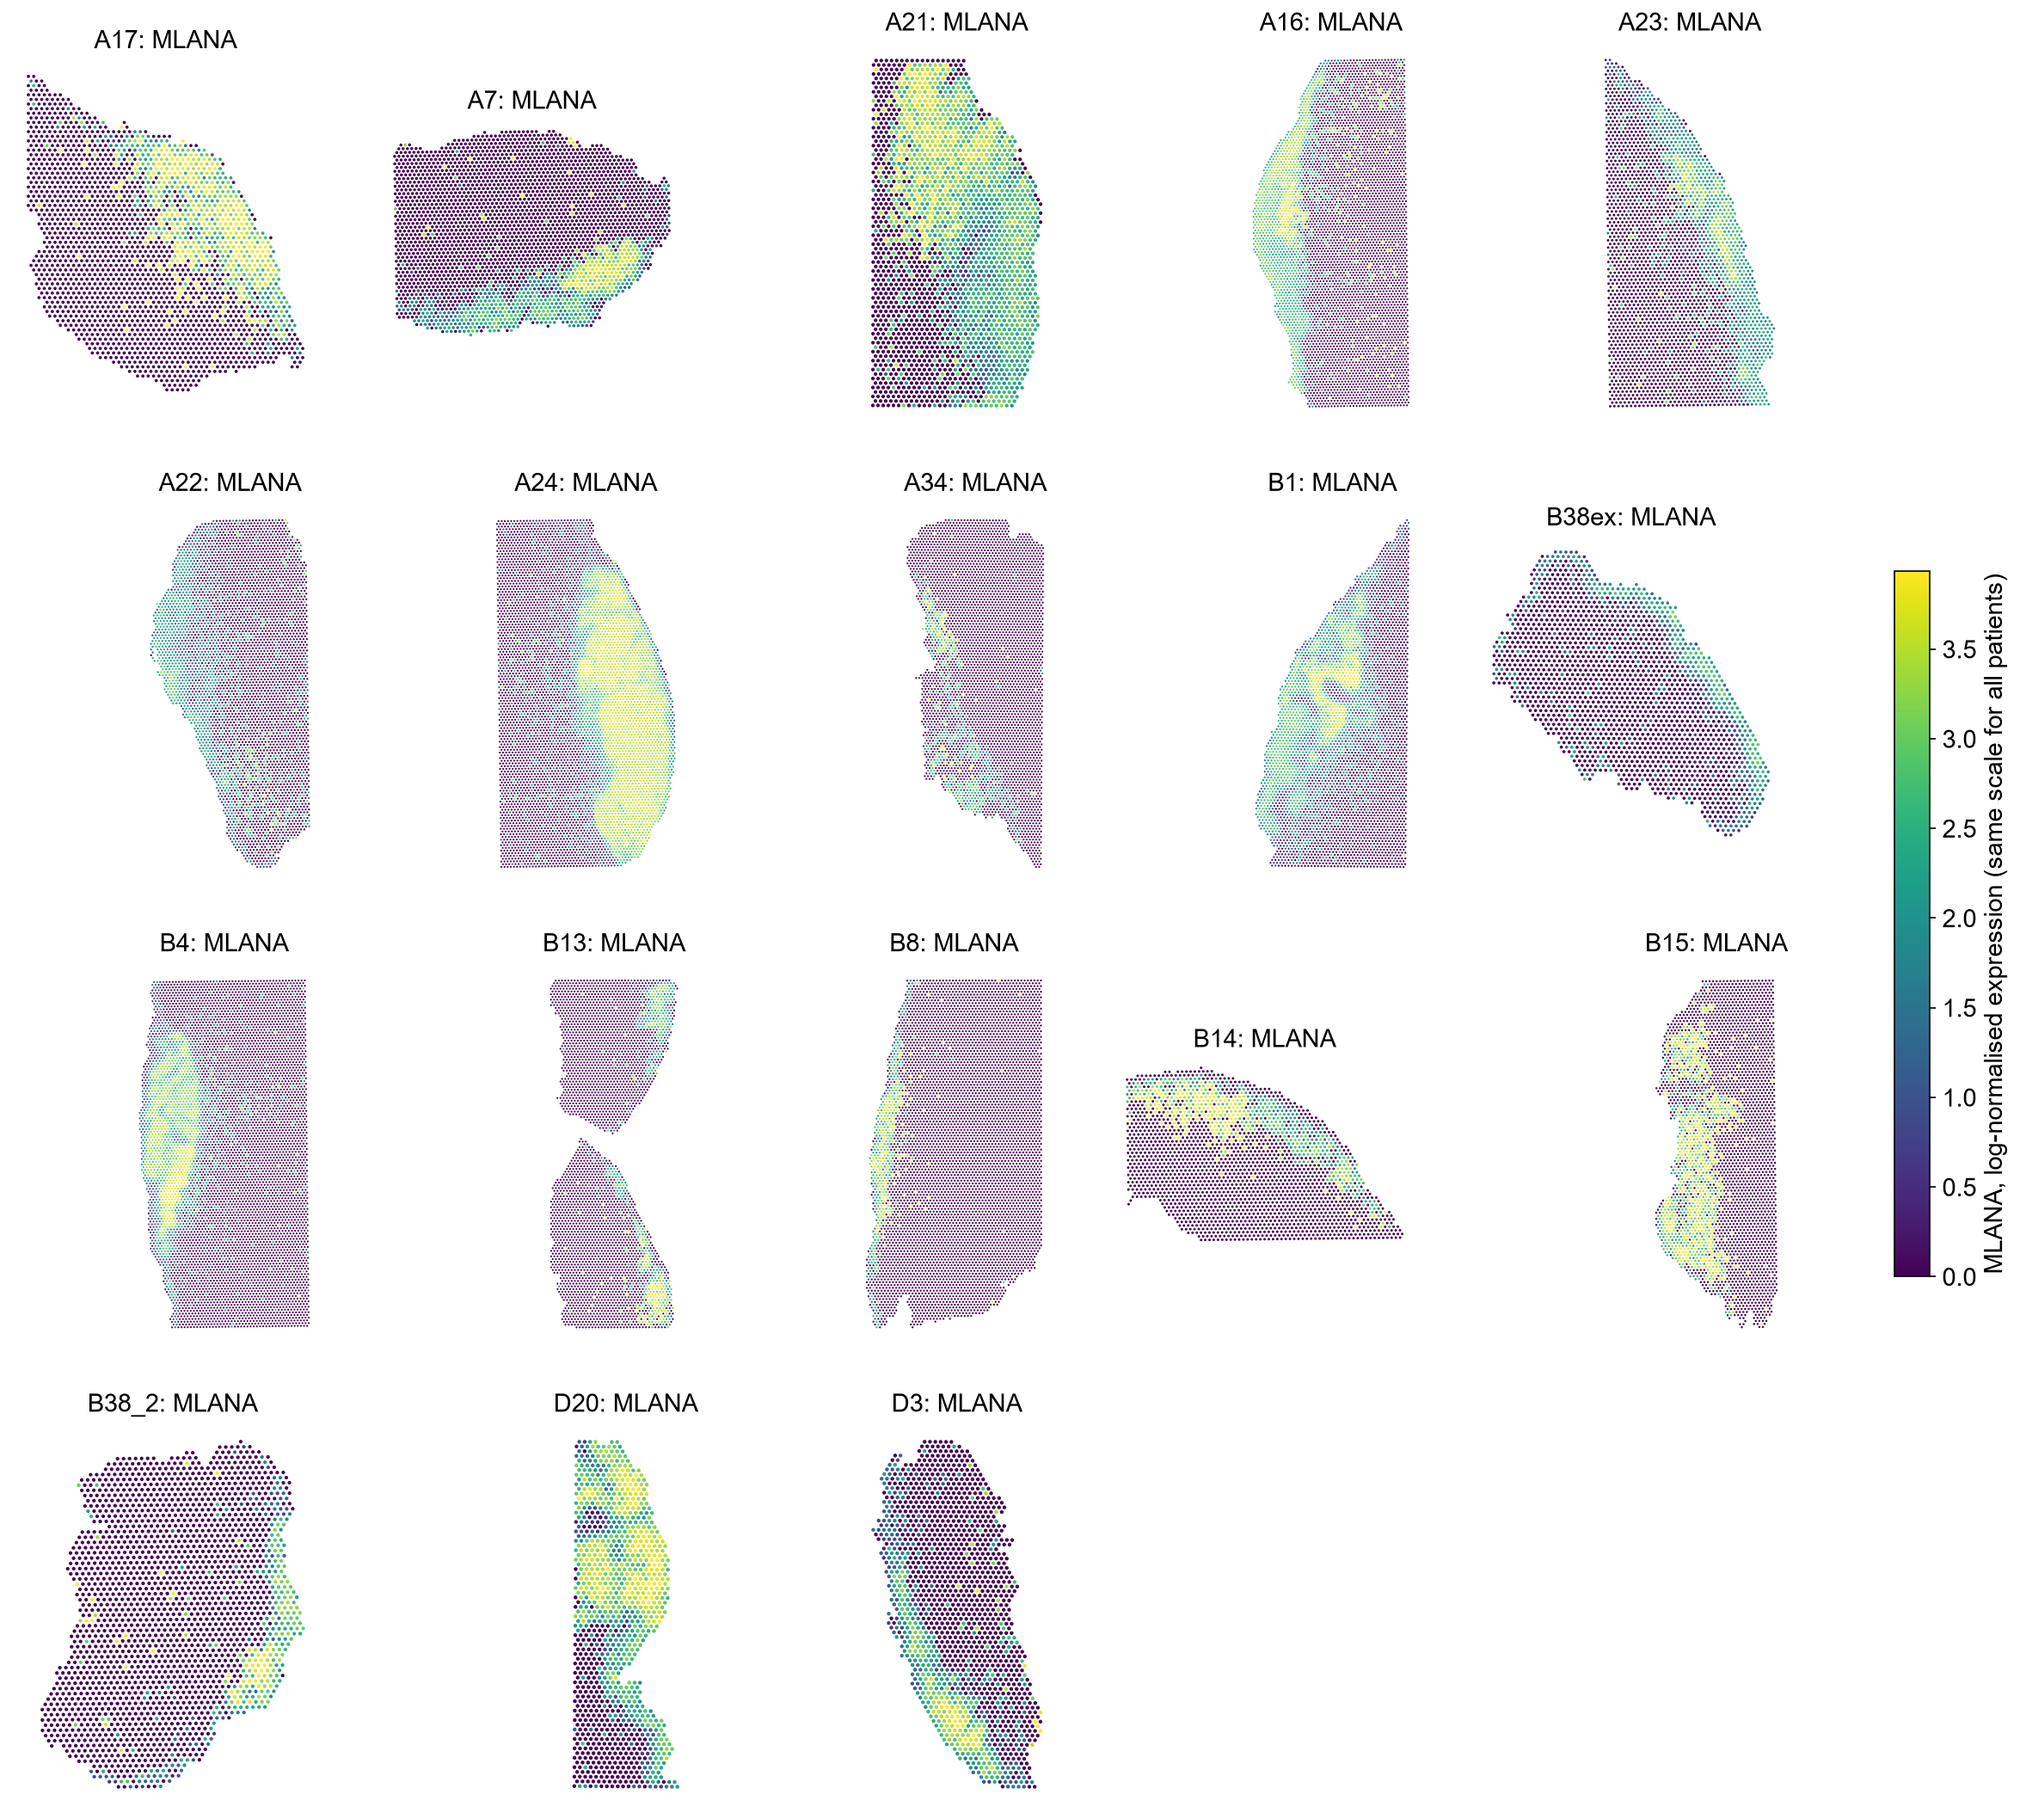
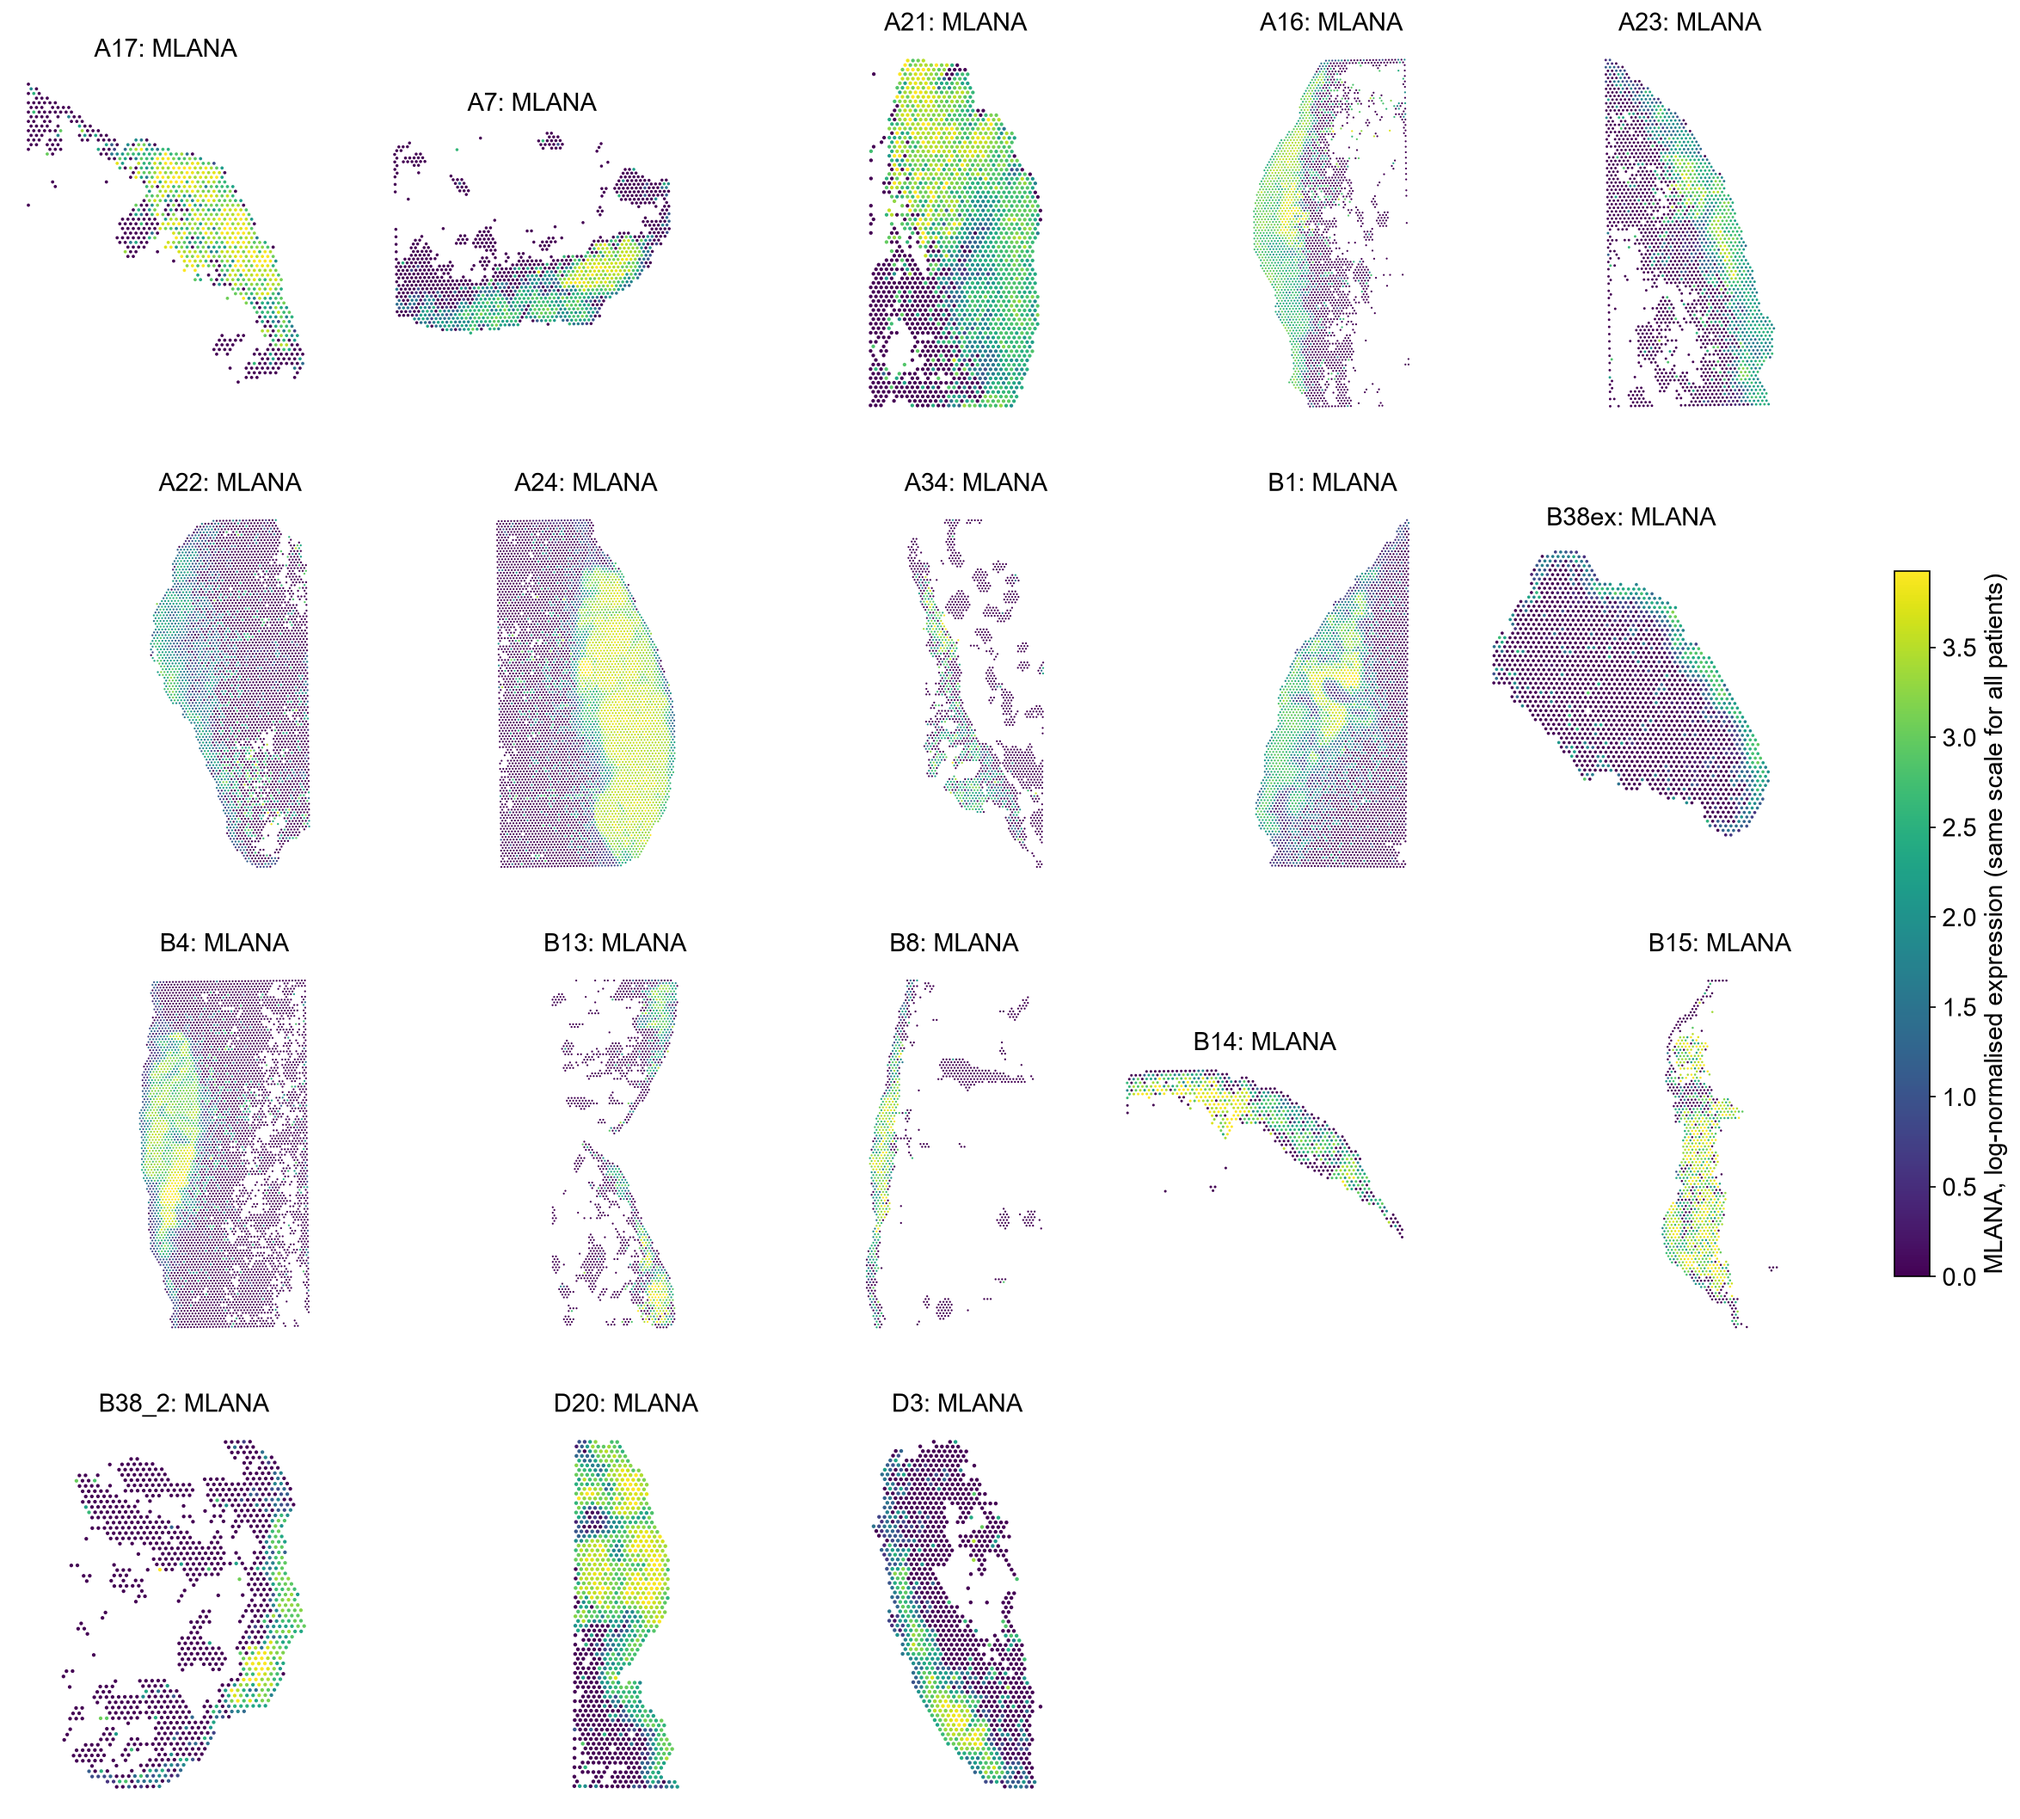
spatial-reasoning: apply the paper's spot filter to GSE298774 (39,483 spots kept)

diff --git a/spatial-reasoning/01_data_exploration/docs/03_GSE298774.md b/spatial-reasoning/01_data_exploration/docs/03_GSE298774.md
@@ -106,7 +106,19 @@ consistent. Patients sharing a capture area share the same pixel size. Several l
 - **The files are only partly filtered as GEO says.** The mitochondrial threshold holds (practically no spot has
   ≥ 30% MT; only 0.1% in B8), and spots with 0 counts are extremely rare. But the **500-gene threshold was not
   applied**: spots with ≤ 500 genes make up 85% of B8, 58–70% of A17, A34, B13, B14 and B15, 47–55% of A7, A16 and
-  B38_2, and under 6% of A22, A24, B1, B38ex and D20. We need our own QC filter before spatial analyses.
+  B38_2, and under 6% of A22, A24, B1, B38ex and D20.
+- **So we apply the paper's filter ourselves** (Methods, p. 2: > 500 genes and < 30% MT). It keeps **39,483 of
+  61,734 spots (64%)**, 2 more than the paper's 39,481, so it reproduces their filtering. Everything after this
+  section uses the filtered spots.
+
+| Spots kept | Patients |
+|---|---|
+| 94–100% | B38ex, B1, A24, D20, A22 |
+| 77–86% | A21, B4, D3, A23 |
+| 45–53% | B38_2, A16, A7 |
+| 15–43% | B13, A34, A17, B15, B14, **B8 (15%)** |
+
+B14, B8 and A17 end up with fewer than 900 spots each.
 
 ### 8. Marker genes
 
@@ -115,8 +127,9 @@ consistent. Patients sharing a capture area share the same pixel size. Several l
 `PRAME` and `MLANA` are plotted for all patients **on the same colour scale**, so patients can be compared.
 
 
-- **Strong, coherent PRAME+ regions:** A24 (a large region) and A16 (a band along one edge).
-- **Moderate PRAME+ regions:** A21, A22, B1, B4, D20, D3, and the rim of A17.
+- **Strong, coherent PRAME+ regions:** A24 (a large region), A16 (a band along one edge) and A17 (a band, clearer
+  once its low-quality spots are filtered out).
+- **Moderate PRAME+ regions:** A21, A22, A23, B1, B4, D20, D3.
 - **Little or none:** A7, A34, B8, B13, B14, B15. These are mostly the shallow patients (section 7), so the absence
   may be technical rather than biological. Isolated bright spots in shallow patients are noise (a spot with very
   few counts gets inflated values after normalisation).
@@ -133,41 +146,51 @@ a candidate **nevus part**. This is a first, rough split that must be checked ag
 
 ![A24 clusters](../results/GSE298774/clusters_A24.png)
 
-**A24 (11 clusters): the best tumour–immune example in the dataset**
+Clusters are computed on the filtered spots. Cluster numbers are arbitrary and differ between patients.
+
+**A24 (12 clusters): the best tumour–immune example in the dataset**
 
 | Cluster | Top genes | Interpretation |
 |---|---|---|
-| 0 | CXCL9, CXCL10, STAT1, GBP1/5, UBD, B2M | **IFN-γ response / T-cell inflamed region** (265 spots) |
-| 5 | IGHG1, IGKC, IGLC2/3 | Plasma cells (761 spots) |
-| 6 | S100A1, MCAM, CAPN3, CNIH3 | Melanocytic |
-| 8 | PMEL, TYR, PAEP, NSG1 | Differentiated melanoma |
-| 9 | SPP1, CXCL8, IFI6, TYRP1, DCT | Melanocytic with inflammatory signal (SPP1+ macrophages?) |
-| 1, 2, 10 | KRT1/10/14, S100A7/8/9, KRT16 | Epidermis (2: inflamed / hyperproliferative) |
+| 5 | B2M, UBD, CXCL9, STAT1, CXCL10, TAP1 | **IFN-γ response / T-cell inflamed region** (181 spots) |
+| 0 | IGHG1, IGLC2/3, IGKC, IGHG3, CD74 | Plasma cells (865 spots) |
+| 1 | S100A1, CNIH3, MCAM, CAPN3 | Melanocytic |
+| 6 | PMEL, TYR, NSG1, PAEP, MIA | Differentiated melanoma |
+| 2 | SPP1, CXCL8, IFI6, SLC11A1, DCT, TYRP1 | Melanocytic with inflammatory signal (SPP1+ macrophages?) |
+| 10 | TRPM1, PMEL, GPR143, MMP11 | Melanocytic (small, 63 spots) |
+| 7, 8, 9 | KRT1/2/5/10/14, S100A7/8/9, SPRR1B | Epidermis (7: inflamed / hyperproliferative) |
 | 3 | DCD, MUCL1, SCGB2A2 | Sweat glands |
-| 4 | DCN, COL1A1, MMP2 | Fibroblasts (largest) |
-| 7 | IGFBP7, TAGLN, ACTA2, NOTCH3 | Vessels / smooth muscle |
+| 4 | DCN, IGFBP5, CFD, MMP2 | Fibroblasts (largest) |
+| 11 | IGFBP7, TAGLN, ACTA2, NOTCH3 | Vessels / smooth muscle |
 
-**A22 (11 clusters):** mostly normal skin: dermis (0, 6), sweat glands (2, 4), adipose/blood (3), sebaceous (5),
-epidermis (8, 10), two melanocytic clusters (7: CSPG4, SERPINE2, ETV5; 9: EDNRB, CD74, VIM) and a high-`MT-`
-low-quality cluster (1).
+**A22 (11 clusters):** mostly normal skin: dermis/fibroblasts (0, 2, 5), sweat glands (1, 3), sebaceous (4),
+blood/adipose (6), epidermis (9, 10) and two melanocytic candidates (7: CSPG4, SERPINE2, VIM; 8: ETV5, MCOLN3,
+PTPRZ1, SERPINE2). The high-`MT-` low-quality cluster seen before filtering is gone.
 
-**B4 (12 clusters):** fibroblasts (0, 1, 4, 10), vessels (2), sweat glands (3), epidermis (6, 9), sebaceous (8),
-adipose (11) and **two melanocytic clusters**: 5 (MLANA, DCT, PAX3, CRTAC1) and 7 (PMEL, MIA, TNC, BCL2A1, B2M).
-Two melanocytic populations within one lesion are candidates for the nevus and the melanoma part.
+**B4 (11 clusters):** vessels (0), fibroblasts (1, 3, 8), sweat glands (2), sebaceous (5), epidermis (6, 10),
+adipose (9) and **two melanocytic clusters**: 4 (DCT, CRTAC1, PYGL, BIRC7, HHATL) and 7 (MIA, SNX10, S100A1, PMEL,
+**PRAME**, TNC, B2M). Two melanocytic populations within one lesion are candidates for the nevus and the melanoma
+part; cluster 7 has PRAME among its top genes, so it is the melanoma candidate.
 
-**A16 (11 clusters, 18k panel):** three melanocytic clusters, 0 (TYRP1, PMEL, MLANA, ABCB5), 5 (ETV1, PTPRZ1, RXRG,
-PLP1: a neural-crest-like state) and 10 (DCT, MLANA, SNAI2), plus immune (7: LYZ, CD74, CCL19), fibroblasts (2, 8),
-smooth muscle (4), sweat glands (6), epidermis (3), adipose/blood (1, 9).
+**A16 (10 clusters, 18k panel):** four melanocytic clusters: 0 (PMEL, TYRP1, MLANA, ABCB5, CDK2), 1 (ETV1, RXRG,
+BCAN, APOE: a neural-crest-like state), 6 (DCT, HHATL, CRTAC1, PYGL, SNAI2, GPX3) and 9 (S100A1, SNX10, S100B,
+MIA); plus fibroblasts (2), stroma with immune/vessel signal (3: CXCL12, CD74, AQP1), sweat glands (4), smooth
+muscle (5) and epidermis (7, 8).
+
+**Same two melanocytic programmes in B4 and A16:** DCT / CRTAC1 / PYGL / HHATL (B4-4, A16-6) and S100A1 / SNX10 /
+MIA (B4-7, A16-9). PRAME, SNX10 and HHATL are among the paper's nevus–melanoma genes, so these are good candidates
+for nevus vs melanoma parts. Which side each programme is on still has to be checked against the paper (Fig. 2)
+and the H&E.
 
 ### 10. Saved files
-`data/processed/GSE298774_<patient>.h5ad` for the 18 usable patients (gzip-compressed; counts, normalised data, QC,
-µm coordinates; clusters only for A22, A24, B4, A16).
+`data/processed/GSE298774_<patient>.h5ad` for the 18 usable patients, **filtered spots only** (gzip-compressed;
+counts, normalised data, QC, µm coordinates; clusters only for A22, A24, B4, A16).
 
 ## Caveats
 
 - No nevus / melanoma labels: `PRAME` and cluster differences are hypotheses until checked against the paper's
   annotations or H&E.
-- Very uneven quality; filter spots and consider excluding the shallowest patients.
+- Very uneven quality, even after the paper's filter; consider excluding the shallowest patients.
 - Two gene panels: restrict to shared genes when comparing patients.
 - The IMC data (protein-level cell types) from the paper are not on GEO.
 
@@ -175,6 +198,6 @@ smooth muscle (4), sweat glands (6), epidermis (3), adipose/blood (1, 9).
 
 1. Can we get the authors' nevus / melanoma annotations?
 2. Can A2's barcodes be recovered from the authors?
-3. Which QC thresholds and which patients to keep for the spatial-operation stage?
+3. Which patients to keep for the spatial-operation stage (B14, B8 and A17 keep < 900 spots after filtering)?
 4. A24 (inflamed tumour border) and D20 / B1 (deep data) look like the best candidates for the first spatial
    questions.
